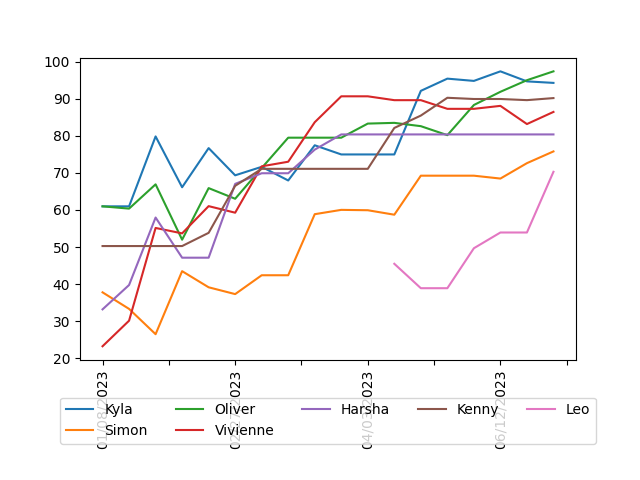
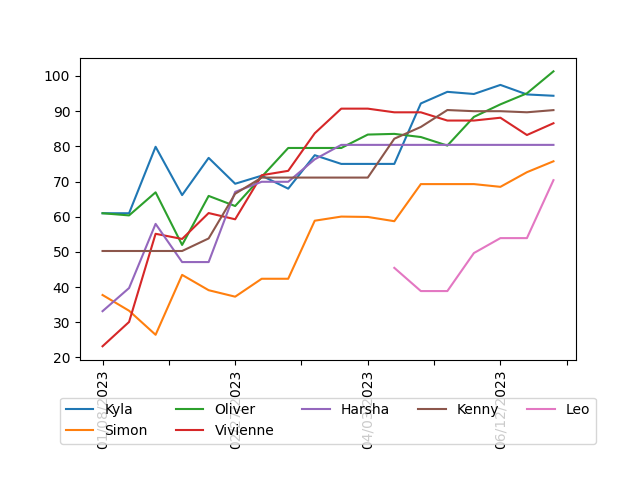
update rankings

diff --git a/README.md b/README.md
@@ -5,19 +5,18 @@
 
 | Player | ELO | Wins | Losses | Win % | Best Game |
 | --- | --- | --- | --- | --- | --- |
-| Oliver | 97.45 | 33 | 26 | 56% | Secret Hitler |
-| Kyla | 94.33 | 31 | 29 | 52% | Cash n Guns |
-| Kenny | 90.23 | 20 | 20 | 50% | Cash n Guns |
+| Oliver | 101.31 | 34 | 26 | 57% | Secret Hitler |
+| Kyla | 94.37 | 31 | 29 | 52% | Cash n Guns |
+| Kenny | 90.29 | 20 | 20 | 50% | Cash n Guns |
 | Nikiny | 88.92 | 6 | 12 | 33% | Cash n Guns |
-| Vivienne | 86.49 | 28 | 19 | 60% | Secret Hitler |
-| Dan | 83.34 | 7 | 9 | 44% | Masquerade |
+| Vivienne | 86.56 | 28 | 19 | 60% | Secret Hitler |
+| Dan | 83.36 | 7 | 9 | 44% | Masquerade |
 | Harsha | 80.41 | 17 | 16 | 52% | Secret Hitler |
-| Olver | 78.91 | 1 | 0 | 100% | Masquerade |
-| Simon | 75.82 | 22 | 29 | 43% | Cash n Guns |
-| Leo | 70.32 | 7 | 15 | 32% | Masquerade |
+| Simon | 75.75 | 22 | 29 | 43% | Cash n Guns |
+| Leo | 70.38 | 7 | 15 | 32% | Masquerade |
 | Karen | 69.00 | 2 | 1 | 67% | Codenames |
 | Rob | 63.15 | 3 | 1 | 75% | Codenames |
-| Peter | 62.75 | 5 | 10 | 33% | Masquerade |
+| Peter | 63.05 | 5 | 10 | 33% | Masquerade |
 | Calvin | 55.59 | 7 | 10 | 41% | Secret Hitler |
 | Dari | 55.21 | 3 | 2 | 60% | Secret Hitler |
 | PeterChau | 54.34 | 2 | 2 | 50% | Coup |
@@ -28,7 +27,7 @@
 | Jason | 47.52 | 3 | 4 | 43% | Wavelength |
 | Kai | 47.09 | 5 | 7 | 42% | Secret Hitler |
 | Kazumi | 46.37 | 1 | 4 | 20% | Coup |
-| Abhi | 45.99 | 4 | 5 | 44% | Wavelength |
+| Abhi | 46.06 | 4 | 5 | 44% | Wavelength |
 | Rayaan | 44.95 | 1 | 1 | 50% | Secret Hitler |
 | Fred | 43.59 | 1 | 1 | 50% | Codenames |
 | Gillian | 42.31 | 1 | 4 | 20% | Coup |
@@ -268,7 +267,7 @@
 
 | Player | ELO | Wins | Losses | Win % |
 | --- | --- | --- | --- | --- |
-| Olver | 71.98  | 1 | 0 | 100% |
+| Oliver | 71.98  | 1 | 0 | 100% |
 | Peter | 58.54  | 0 | 1 | 0% |
 | Kenny | 58.54  | 0 | 1 | 0% |
 | Dan | 58.54  | 0 | 1 | 0% |
